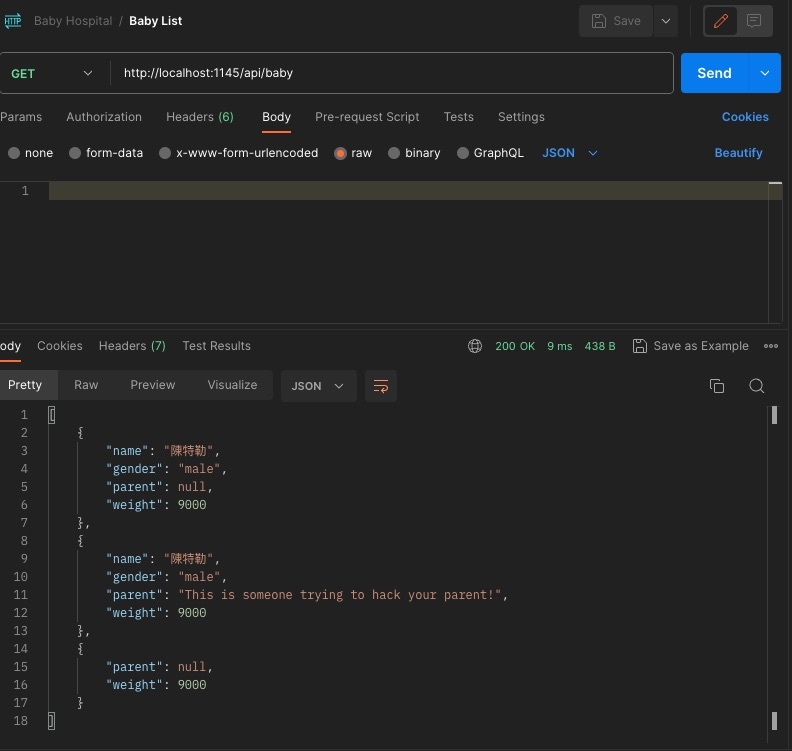
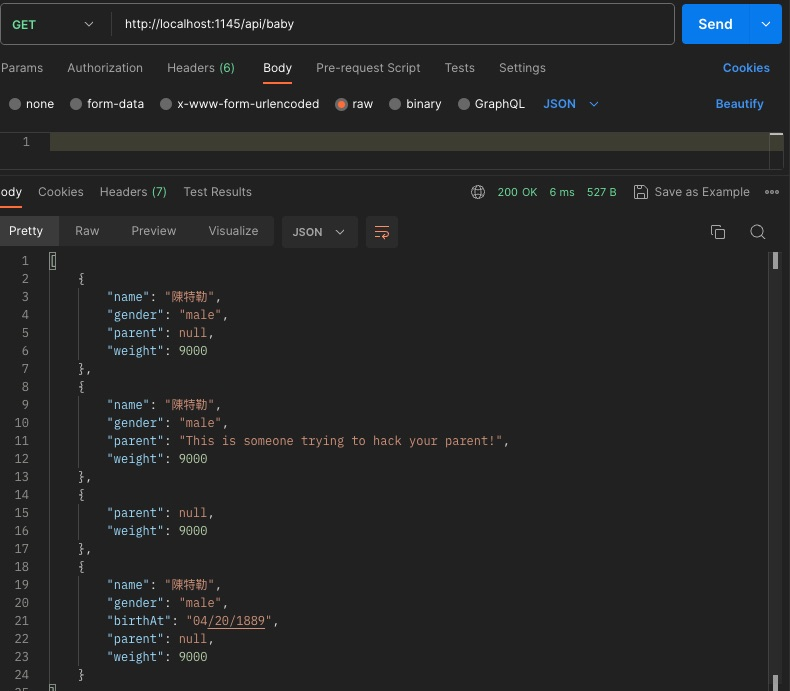
Add birthAt attribute

diff --git a/docs/001_start_coding.md b/docs/001_start_coding.md
@@ -3,11 +3,13 @@
 Before we code anything else about baby, we need to think 
 
 * What is a baby?
+  * A baby model should able to carry information about a individual baby.
 * When will you enter the baby's information to the system?
   * I would like to enter the baby's information right after they born.
   * So some of information may not be available at that time.
 * What information should a baby carried?
   * For example, we want to storage those information which depends on A baby.
+    * birthAt (*)
     * gender (*)
     * weight (*)
     * name
@@ -21,6 +23,7 @@ Before we code anything else about baby, we need to think
 ## Here is the Baby schema
 ```javascript
 {
+  birthAt: "11/04/2024", //  Date Object * but String here for demo purposes
   gender: '', // String *
   weight: '', // Number *
   name: '', // String
@@ -69,6 +72,7 @@ And use Postman to do the request too.
 ### WTF? Someone hacked me?
 
 Why a baby can having no gender?
+How can a baby without birthday?
 
 
 ![](https://github.com/zackexplosion/Baby-Hospital/blob/main/screenshots/002.jpg?raw=true)
